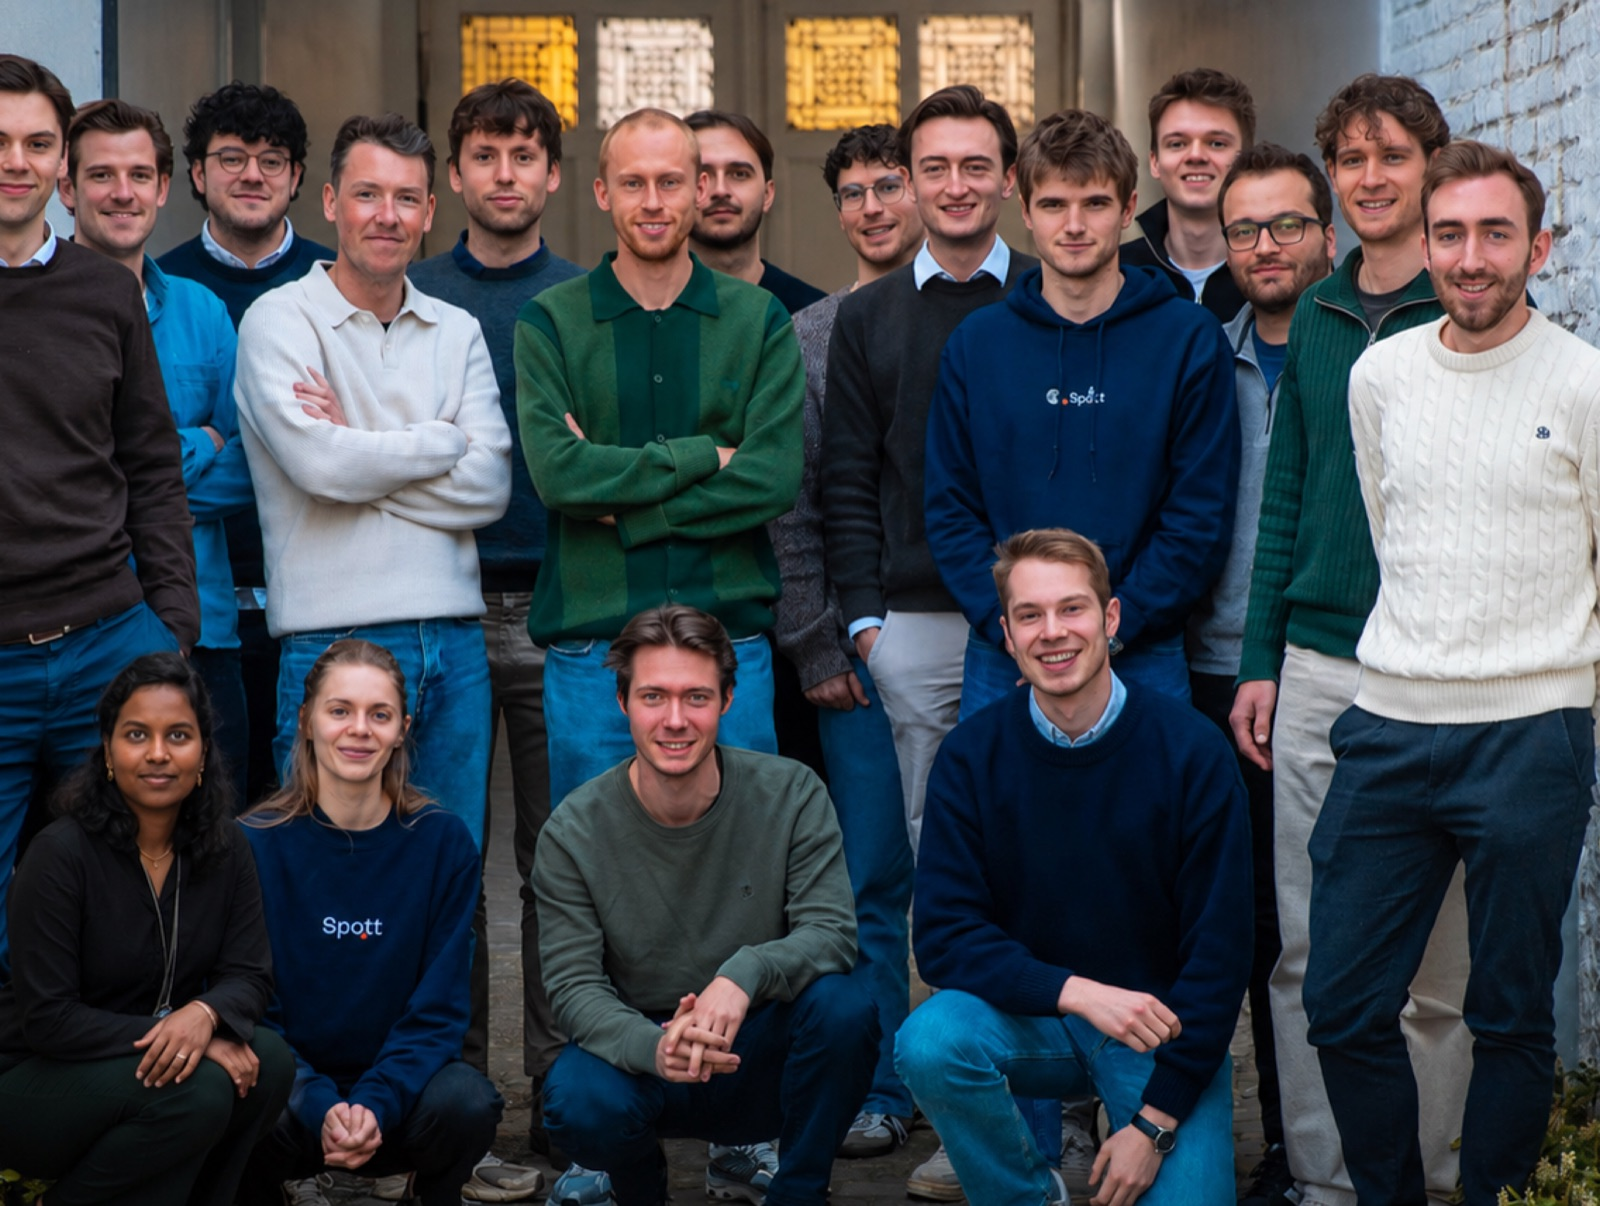
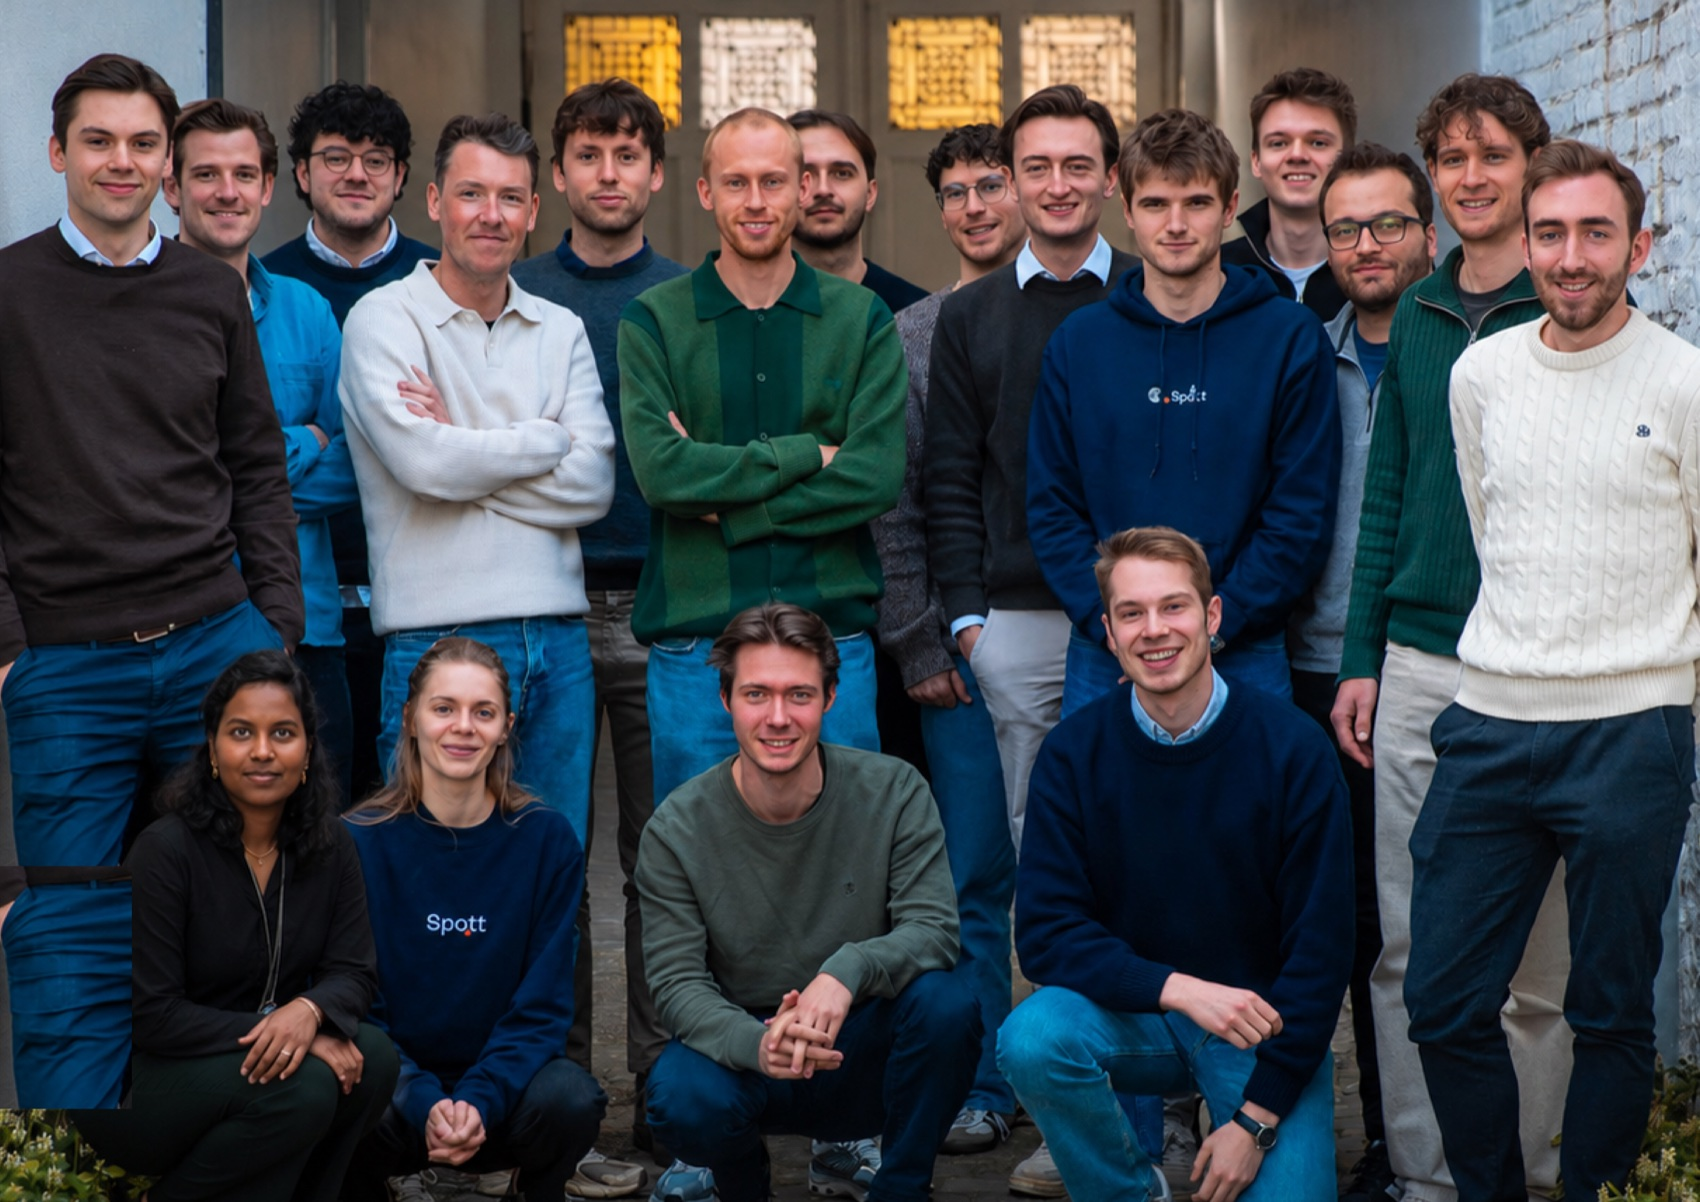
Trim week 1 to twelve queries that arrive one at a time
Hero: "one of the Spott interns", bubble points up, last-day line is the
bubble. Reveal bubble rewritten (referral / founders' judgment / patented
method). Photo re-cropped wider so the whole left-hand person is in frame.

Question counter removed. Week 1's queries are hand-placed across the full
width and revealed strictly one per scroll step rather than a row at a time.
Week 2 note reworded; Deblaude.

diff --git a/site/app.js b/site/app.js
@@ -228,33 +228,23 @@ const WEEK1 = {
   note: 'I was thrown into the deep end.',
   qs: [
     ['google',  'what is a repository'],
-    ['chatgpt', 'how do i set up a github'],
     ['google',  'what is an ATS'],
     ['google',  'what is a recruitment agency'],
-    ['claude',  'what does Kevin mean by “put it in ordinal”'],
-    ['google',  'what does GTM stand for'],
-    ['chatgpt', 'what is a JSON file'],
-    ['google',  'what even is recruitment, like fundamentally'],
-    ['claude',  'explain what this company actually sells, like i am five'],
-    ['google',  'what is a CRM'],
-    ['chatgpt', 'how do i clone a repo'],
-    ['google',  'tech bro words i can use to sound like i know things'],
-    ['claude',  'what is the difference between a branch and a fork'],
-    ['google',  'basic terminal commands list'],
-    ['chatgpt', 'what does “ship it” actually mean at a startup'],
-    ['google',  'what is YC'],
-    ['claude',  'is “let us circle back” something people genuinely say'],
-    ['google',  'what is an API'],
-    ['chatgpt', 'how to sound confident in a standup meeting'],
     ['claude',  'what does Kevin mean by <em>this</em>'],
-    ['google',  'how long until you stop feeling like an impostor at a new job'],
+    ['google',  'what is an API'],
+    ['google',  'tech bro words i can use to sound like i know things'],
+    ['chatgpt', 'how do i clone a repo'],
+    ['google',  'what is a CRM'],
+    ['claude',  'explain what this company actually sells, like i am five'],
+    ['chatgpt', 'what is a JSON file'],
+    ['google',  'what does GTM stand for'],
     ['claude',  'is it normal to understand absolutely nothing on day three', 'punch'],
   ],
 };
 
 const WEEK2 = {
   title: "Now I'm a pro. At Claude, and at Spott.",
-  note: 'Two weeks in and I had opinions. Some of them were even correct.',
+  note: 'Two weeks in, I had opinions — and put both Spott and Claude to work.',
   beats: [
     {
       img: 'assets/img/valuation.jpg',
@@ -267,7 +257,7 @@ const WEEK2 = {
       img: 'assets/img/seat-upgraded.jpg',
       alt: 'Email: Your seat was upgraded — you now have more Claude usage',
       bub: 'pink',
-      b: 'You can call me Debloed now',
+      b: 'You can call me Deblaude now',
       p: 'Claude had become an integral part of my workflow. Who would have thought?',
     },
   ],
@@ -283,6 +273,13 @@ function weekHead(n, w) {
   </div>`;
 }
 
+/* left %, width % — tuned so nothing collides and the eye keeps moving */
+const SCATTER = [
+  [ 3, 34], [54, 38], [24, 36], [62, 33],
+  [ 5, 40], [39, 36], [66, 31], [13, 34],
+  [46, 41], [ 2, 36], [35, 34], [57, 39],
+];
+
 function buildWeeks() {
   const root = $('#weeks-root');
   const frag = document.createDocumentFragment();
@@ -293,7 +290,14 @@ function buildWeeks() {
   w1.innerHTML = `
     ${weekHead(1, WEEK1)}
     <div class="wrap wrap-wide">
-      <div class="wk-field">${WEEK1.qs.map(renderQ).join('')}</div>
+      <div class="wk-field" style="--n:${WEEK1.qs.length}">${
+        WEEK1.qs.map((q, i) => {
+          const [x, w] = SCATTER[i % SCATTER.length];
+          const y = 1 + i * (86 / (WEEK1.qs.length - 1));
+          const rot = [-1.1, 1.3, -.6, .9][i % 4];
+          return renderQ(q).replace('class="q ', `style="--x:${x}%;--w:${w}%;--y:${y}%;--rot:${rot}deg" class="q `);
+        }).join('')
+      }</div>
     </div>`;
   frag.appendChild(w1);
 
@@ -333,7 +337,7 @@ function observeAll() {
     });
   }, { rootMargin: '-12% 0px -18% 0px' });
 
-  $$('.q, .beat-wrap, .bub-hero').forEach(el => qObs.observe(el));
+  $$('.beat-wrap, .bub-hero').forEach(el => qObs.observe(el));
 
   /* stat counters */
   const sObs = new IntersectionObserver((entries) => {
@@ -354,24 +358,36 @@ function observeAll() {
   }, { threshold: .6 });
   $$('.stat-n').forEach(el => sObs.observe(el));
 
+  wireQueries();
   wireReveal();
   wireBlur();
-  settleCounter();
 }
 
-/* If you scroll fast enough, the observer misses a few. Land on the real number. */
-function settleCounter() {
-  const total = WEEK1.qs.length;
-  const blur  = $('#blur');
-  if (!blur) return;
-  new IntersectionObserver((e, o) => {
-    if (!e[0].isIntersecting || asked >= total) return;
-    o.disconnect();
-    const iv = setInterval(() => {
-      $('#qcount').textContent = ++asked;
-      if (asked >= total) clearInterval(iv);
-    }, 45);
-  }, { rootMargin: '0px 0px -40% 0px' }).observe(blur);
+/* ─────────── week 1: one query at a time, as you scroll ─────────── */
+function wireQueries() {
+  const qs = $$('.wk-field .q');
+  if (!qs.length) return;
+
+  let pending = false;
+  const check = () => {
+    pending = false;
+    const line = window.innerHeight * 0.82;
+    let left = false;
+    for (const el of qs) {
+      if (el.classList.contains('in')) continue;
+      if (el.getBoundingClientRect().top < line) el.classList.add('in');
+      else left = true;
+    }
+    if (!left) window.removeEventListener('scroll', onScroll);
+  };
+  const onScroll = () => {
+    if (pending) return;
+    pending = true;
+    requestAnimationFrame(check);
+  };
+
+  window.addEventListener('scroll', onScroll, { passive: true });
+  check();
 }
 
 /* ─────────── "wondering how I got into Spott?" ─────────── */

diff --git a/site/styles.css b/site/styles.css
@@ -227,6 +227,7 @@ img,video{max-width:100%;display:block}
     radial-gradient(1100px 520px at 88% -8%,rgba(107,163,222,.24),transparent 62%),
     radial-gradient(820px 480px at 2% 104%,rgba(244,184,212,.32),transparent 60%);
 }
+.hero-grid > *{min-width:0}
 .hero-grid{display:grid;grid-template-columns:1.35fr .8fr;gap:clamp(24px,5vw,60px);align-items:center}
 .hero-title{
   font-size:clamp(34px,6.6vw,68px);font-weight:800;letter-spacing:-.035em;line-height:1.04;
@@ -331,16 +332,6 @@ img,video{max-width:100%;display:block}
 /* ─────────── WEEKS ─────────── */
 .sec-weeks{padding-bottom:0}
 
-.count-rail{position:sticky;top:0;z-index:45;padding:14px 0 12px;
-  background:linear-gradient(var(--cream) 70%,rgba(253,241,227,0));
-  margin-top:clamp(24px,4vw,40px);}
-.count-rail .wrap{display:flex;justify-content:flex-end}
-.qcount{display:flex;align-items:baseline;gap:7px;
-  background:var(--navy);color:var(--cream);padding:9px 16px;border-radius:999px;}
-.qcount-n{font-family:var(--mono);font-size:15px;font-variant-numeric:tabular-nums;font-weight:500}
-.qcount-l{font-size:10.5px;letter-spacing:.11em;text-transform:uppercase;font-weight:600;opacity:.62}
-
-/* ─────────── a week ─────────── */
 .wk{position:relative;padding-bottom:clamp(50px,9vw,120px)}
 
 .wk-head{position:sticky;top:0;z-index:30;padding:clamp(20px,4vw,40px) var(--gut) clamp(18px,3vw,30px);
@@ -353,23 +344,15 @@ img,video{max-width:100%;display:block}
 .wk-1 .week-num{color:var(--blue-dk)}
 .wk-2 .week-num{color:var(--accent)}
 
-/* the questions come at you from all three sides */
-.wk-field{
-  display:grid;grid-template-columns:repeat(3,1fr);align-items:start;
-  gap:clamp(26px,4vw,52px) clamp(16px,2.4vw,30px);
-  padding:clamp(24px,5vw,56px) 0 clamp(30px,6vw,80px);
-}
-.wk-field > *{min-width:0}
-/* stagger the columns so nothing lines up in tidy rows */
-.wk-field > *:nth-child(3n+2){margin-top:clamp(34px,7vw,110px)}
-.wk-field > *:nth-child(3n+3){margin-top:clamp(68px,13vw,210px)}
-.wk-field > *:nth-child(4n+1){transform-origin:center;rotate:-1.1deg}
-.wk-field > *:nth-child(4n+3){rotate:1.3deg}
-.wk-field > *:nth-child(6n+5){rotate:-.6deg}
+/* the questions come at you from every side, one at a time */
+.wk-field{position:relative;height:calc(var(--n) * 26vh);margin-top:clamp(20px,4vw,44px)}
+.wk-field > .q{position:absolute;left:var(--x);top:var(--y);width:var(--w);rotate:var(--rot)}
 
 .q,.beat-wrap,.bub-hero{opacity:0;transform:translateY(34px);
   transition:opacity .6s var(--ease),transform .6s var(--ease);}
 .q.in,.beat-wrap.in,.bub-hero.in{opacity:1;transform:none}
+.wk-field > .q{transform:translateY(34px) scale(.97)}
+.wk-field > .q.in{transform:none}
 .q-txt{font-size:clamp(13.5px,1.55vw,15.5px);line-height:1.45;font-weight:400}
 .q-txt em{font-style:normal;background:rgba(242,208,90,.5);padding:0 4px;border-radius:4px}
 
@@ -417,7 +400,7 @@ img,video{max-width:100%;display:block}
 .q-slack .q-txt{color:#D1D2D3}
 
 /* the one that lands */
-.q.is-punch{position:relative;rotate:0deg!important}
+.q.is-punch{rotate:0deg}
 .q.is-punch::after{content:'';position:absolute;inset:-5px;border-radius:inherit;
   box-shadow:0 0 0 2.5px var(--accent);opacity:.6;pointer-events:none}
 
@@ -578,8 +561,6 @@ img,video{max-width:100%;display:block}
   /* keep the rail to a single row, or it swallows the sticky week header */
   .pill-row{flex-wrap:nowrap;gap:9px}
   .search-pill{flex:1 1 auto}
-  .qcount-l{display:none}
-  .qcount{padding:11px 14px}
   .week-left{top:62px}
 }
 @media (max-width:560px){
@@ -635,17 +616,23 @@ img,video{max-width:100%;display:block}
 
 /* ─────────── responsive: weeks ─────────── */
 @media (max-width:1000px){
-  .wk-field{grid-template-columns:repeat(2,1fr)}
-  .wk-field > *:nth-child(3n+2),
-  .wk-field > *:nth-child(3n+3){margin-top:0}
-  .wk-field > *:nth-child(2n){margin-top:clamp(28px,6vw,70px)}
+  .wk-field > .q{width:calc(var(--w) + 16%)}
 }
-@media (max-width:640px){
-  .wk-field{grid-template-columns:1fr;gap:22px}
-  .wk-field > *{margin-top:0!important;rotate:0deg!important}
+@media (max-width:760px){
+  /* absolute scatter needs room a phone doesn't have — stack it */
+  .wk-field{height:auto;display:flex;flex-direction:column;gap:clamp(60px,16vh,130px);
+    padding:clamp(20px,5vh,50px) 0}
+  .wk-field > .q{position:static;width:100%;rotate:0deg}
+  .wk-field > .q:nth-child(even){margin-left:auto;width:94%}
+  .wk-field > .q:nth-child(odd){width:94%}
   .wk-head{padding-top:14px}
   .week-note{display:none}
   .beat-bub{width:100%;margin-left:0!important;margin-right:0!important}
   .sig{left:auto;right:4%;bottom:-18px;transform:rotate(-1.2deg)}
   .beat-b{text-align:left;margin-left:0}
+}
+
+/* the logo + word can't hold one line on a phone — must come after the base rule */
+@media (max-width:900px){
+  .spott-line{white-space:normal}
 }

diff --git a/site/index.html b/site/index.html
@@ -84,17 +84,17 @@
         <div class="hero-copy">
           <p class="eyebrow">A recap, unwrapped ;)</p>
           <h1 class="hero-title">
-            Hi, I'm <span class="hl hl-yellow">Debora</span>. <span class="spott-line">The <span class="spott-mark" role="img" aria-label="Spott">
+            Hi, I'm <span class="hl hl-yellow">Debora</span>. <span class="spott-line">One of the <span class="spott-mark" role="img" aria-label="Spott">
               <svg viewBox="0 0 138 42" aria-hidden="true">
                 <circle cx="17" cy="19" r="15" fill="#12263C"/>
                 <circle cx="35.5" cy="29.5" r="7.5" fill="#F26A21"/>
                 <text x="48" y="31" font-family="Plus Jakarta Sans, sans-serif" font-weight="700" font-size="32" letter-spacing="-1" fill="#12263C">Spott</text>
               </svg>
-            </span> intern.</span>
+            </span> interns.</span>
           </h1>
 
-          <div class="bub bub-olive bub-hero">
-            <span>Today is my last day, and I wanted to tell you all about my experience here.</span>
+          <div class="bub bub-olive bub-up bub-hero">
+            <span>Today is my last day, and I wanted to tell you all about my experience.</span>
           </div>
         </div>
 
@@ -130,7 +130,8 @@
 
           <div class="reveal-bubs">
             <div class="bub bub-pink bub-up">
-              <span>This is the reason I got the internship. If you ever want a job — edit yourself into the team photo. 100% success guaranteed.</span>
+              <b>This is the reason I got the internship</b>
+              <span>Definitely not a referral. Definitely not the founders' excellent judgment. 100% success rate guaranteed — and the method is patented, so do pay royalties if you use it.</span>
             </div>
           </div>
         </div>
@@ -143,12 +144,6 @@
     <div class="wrap wrap-wide">
       <h2 class="sec-title">So what did I <span class="hl hl-blue">actually do</span> all day?</h2>
       <p class="sec-lede">Well — let's find out together.</p>
-    </div>
-
-    <div class="count-rail" aria-hidden="true">
-      <div class="wrap wrap-wide">
-        <div class="qcount"><span class="qcount-n" id="qcount">0</span> <span class="qcount-l">questions asked</span></div>
-      </div>
     </div>
 
     <div id="weeks-root"></div>
